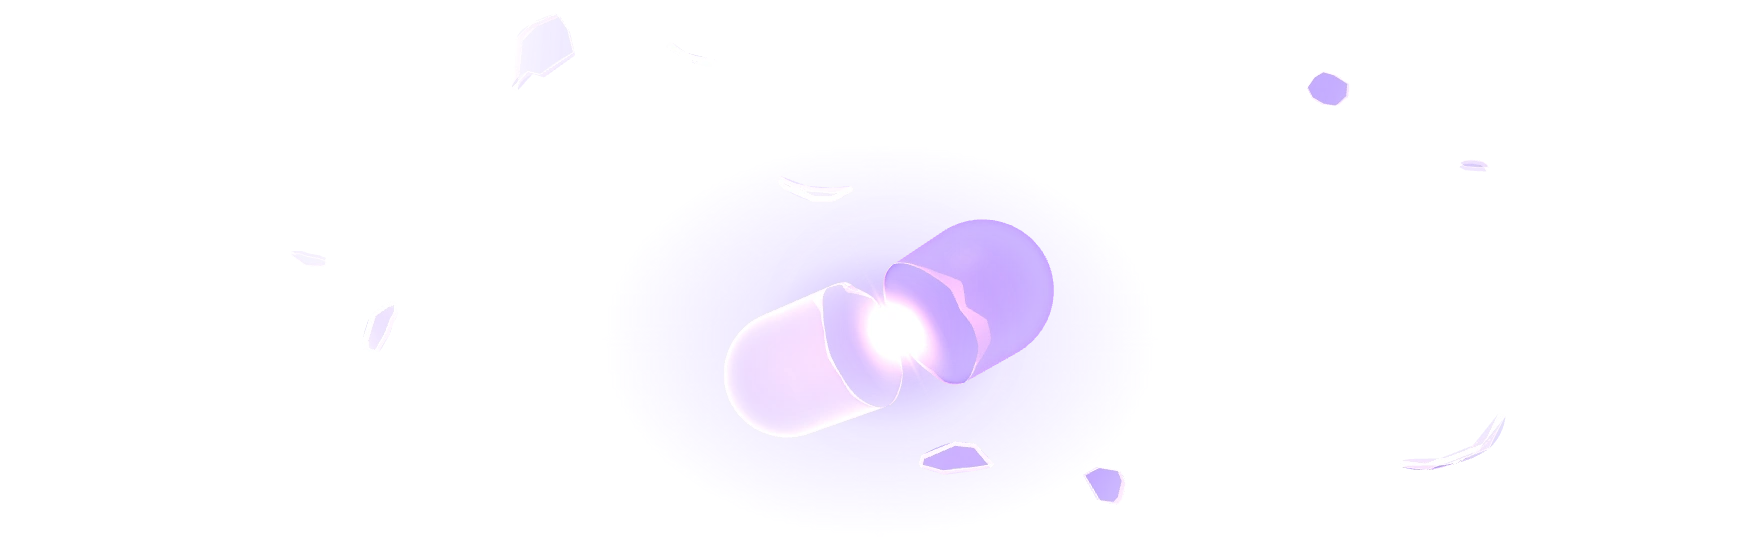
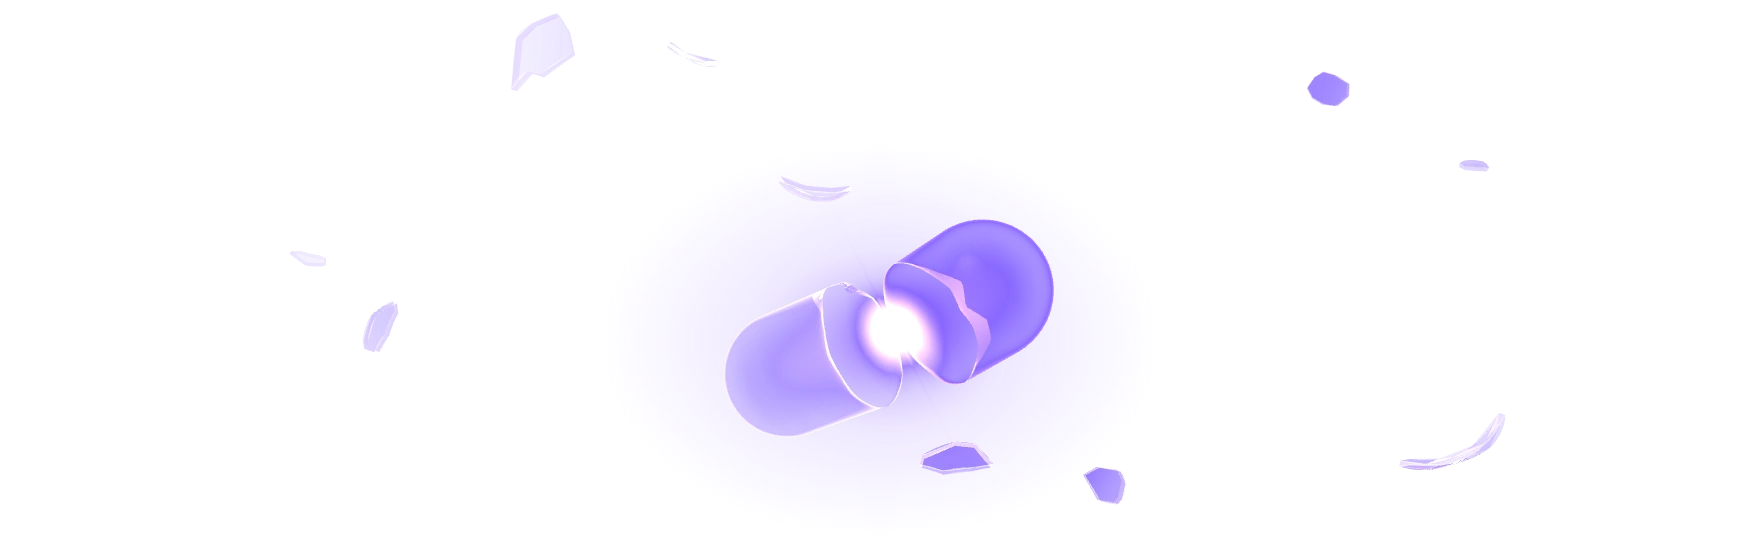
FIX: Safari(WebKit)에서 404 3D 캡슐 안·코어 빛 주변에 어두운 점이 생기던 문제
- 원인: 빛 번짐 텍스처(radialGlowTexture)를 2D 캔버스 그라디언트로 만들었는데, WebKit은 그라디언트에
  디더 노이즈를 넣고 WebGL 업로드 때 알파를 나눠(un-premultiply) 옅은 부분의 노이즈가 크게 커짐 → 어두운 점.
  텍스처를 픽셀마다 직접 계산한 DataTexture로 바꿈.
- forAlphaCanvas 알파 블렌드를 One/One으로: 가산 빛이 겹칠 때 색 > 알파(잘못된 프리멀티플라이 픽셀)가 되던 것 수정.
- 정지 이미지(broken-capsule*.webp) 다시 생성.

diff --git a/src/components/not-found/three/capsule-model.ts b/src/components/not-found/three/capsule-model.ts
@@ -1,9 +1,10 @@
-// Copied verbatim from Front_Web src/shared/three/capsule-model.ts (three 0.187.0, 2026-11-29): the service's one capsule model.
-// Keep it identical to the app's file; change it there first.
+// Copied from Front_Web src/shared/three/capsule-model.ts (three 0.187.0, 2026-11-29): the service's one capsule model.
+// Identical to the app's file except two Safari fixes (marked LANDING CHANGE: `forAlphaCanvas`'s alpha blend and
+// `radialGlowTexture`): bring the app to the same fixes.
 import {
-  AdditiveBlending, BackSide, BoxGeometry, BufferAttribute, CanvasTexture, Color, CustomBlending, DoubleSide,
-  Group, InstancedBufferAttribute, InstancedMesh, LatheGeometry, Matrix4, Mesh, MeshBasicMaterial, OneFactor,
-  OneMinusSrcAlphaFactor, PlaneGeometry, Scene, ShaderMaterial, SRGBColorSpace, Vector2,
+  AdditiveBlending, BackSide, BoxGeometry, BufferAttribute, Color, CustomBlending, DataTexture, DoubleSide,
+  Group, InstancedBufferAttribute, InstancedMesh, LatheGeometry, LinearFilter, LinearMipmapLinearFilter, Matrix4, Mesh,
+  MeshBasicMaterial, OneFactor, PlaneGeometry, RGBAFormat, Scene, ShaderMaterial, SRGBColorSpace, Vector2,
 } from 'three'
 import type { BufferGeometry } from 'three'
 import { BRAND_CAPSULE_COLORS, CAPSULE_SEAM_X, capsuleProfileSamples, capsuleRadiusAt, type CapsuleColors } from './capsule-shape.ts'
@@ -36,7 +37,13 @@ const ALPHA_CANVAS_OUTPUT = /* glsl */ `
 
 /**
  * Makes one of this module's additive materials composite correctly on a transparent canvas (`alpha: true`): light
- * adds onto what is already drawn, and the canvas alpha grows with it (over-blending), so the page shows through.
+ * adds onto what is already drawn, and the canvas alpha grows with it, so the page shows through.
+ *
+ * LANDING CHANGE (2026-11-29, to be made in the app too): the alpha adds like the colour (One / One). With the app's
+ * One / OneMinusSrcAlpha alpha, overlapping layers summed more colour than alpha — e.g. two layers of 0.5 give colour
+ * 1.0 but alpha 0.75 — and a third of the lit pixels ended up "colour > alpha", an invalid premultiplied pixel. Chrome
+ * composites those quietly; WebKit (Safari) shows them as dark specks and smudges. Each fragment's alpha is its
+ * brightest channel, so summed alphas always cover every summed channel: colour ≤ alpha everywhere.
  */
 export function forAlphaCanvas<T extends ShaderMaterial>(material: T): T {
   material.defines = { ...material.defines, CAPSULE_ALPHA_CANVAS: '' }
@@ -44,7 +51,7 @@ export function forAlphaCanvas<T extends ShaderMaterial>(material: T): T {
   material.blendSrc = OneFactor
   material.blendDst = OneFactor
   material.blendSrcAlpha = OneFactor
-  material.blendDstAlpha = OneMinusSrcAlphaFactor
+  material.blendDstAlpha = OneFactor
   material.needsUpdate = true
   return material
 }
@@ -88,17 +95,40 @@ export function capsuleStudioEnvironment() {
   return environment
 }
 
+/**
+ * A soft radial glow (stops: offset 0…1 from the centre, CSS rgb/rgba colour).
+ *
+ * LANDING CHANGE (2026-11-29, to be made in the app too): computed pixel by pixel into a DataTexture instead of a
+ * 2D-canvas radial gradient. WebKit (Safari) dithers canvas gradients, and uploading the canvas un-premultiplies it,
+ * so where the glow is faint the dither noise is magnified in the colour channels — dark specks and smudges over every
+ * glow card in Safari. Exact pixels have no noise.
+ */
 export function radialGlowTexture(stops: readonly [number, string][]) {
   const size = 128
-  const canvas = document.createElement('canvas')
-  canvas.width = canvas.height = size
-  const context = canvas.getContext('2d')!
-  const gradient = context.createRadialGradient(size / 2, size / 2, 0, size / 2, size / 2, size / 2)
-  for (const [offset, color] of stops) gradient.addColorStop(offset, color)
-  context.fillStyle = gradient
-  context.fillRect(0, 0, size, size)
-  const texture = new CanvasTexture(canvas)
+  const parsed = stops.map(([offset, css]) => {
+    const [r = 255, g = 255, b = 255, a = 1] = (css.match(/[\d.]+/g) ?? []).map(Number)
+    return { offset, color: [r, g, b, a * 255] as const }
+  })
+  const sample = (t: number) => {
+    const after = parsed.findIndex((stop) => stop.offset >= t)
+    if (after <= 0) return (after === 0 ? parsed[0]! : parsed[parsed.length - 1]!).color
+    const from = parsed[after - 1]!, to = parsed[after]!
+    const k = (t - from.offset) / Math.max(1e-6, to.offset - from.offset)
+    return from.color.map((value, channel) => value + (to.color[channel]! - value) * k)
+  }
+  const data = new Uint8Array(size * size * 4)
+  for (let y = 0; y < size; y++) {
+    for (let x = 0; x < size; x++) {
+      const t = Math.min(1, Math.hypot(x + 0.5 - size / 2, y + 0.5 - size / 2) / (size / 2))
+      data.set(sample(t).map(Math.round), (y * size + x) * 4)
+    }
+  }
+  const texture = new DataTexture(data, size, size, RGBAFormat)
   texture.colorSpace = SRGBColorSpace
+  texture.magFilter = LinearFilter
+  texture.minFilter = LinearMipmapLinearFilter
+  texture.generateMipmaps = true
+  texture.needsUpdate = true
   return texture
 }
 
